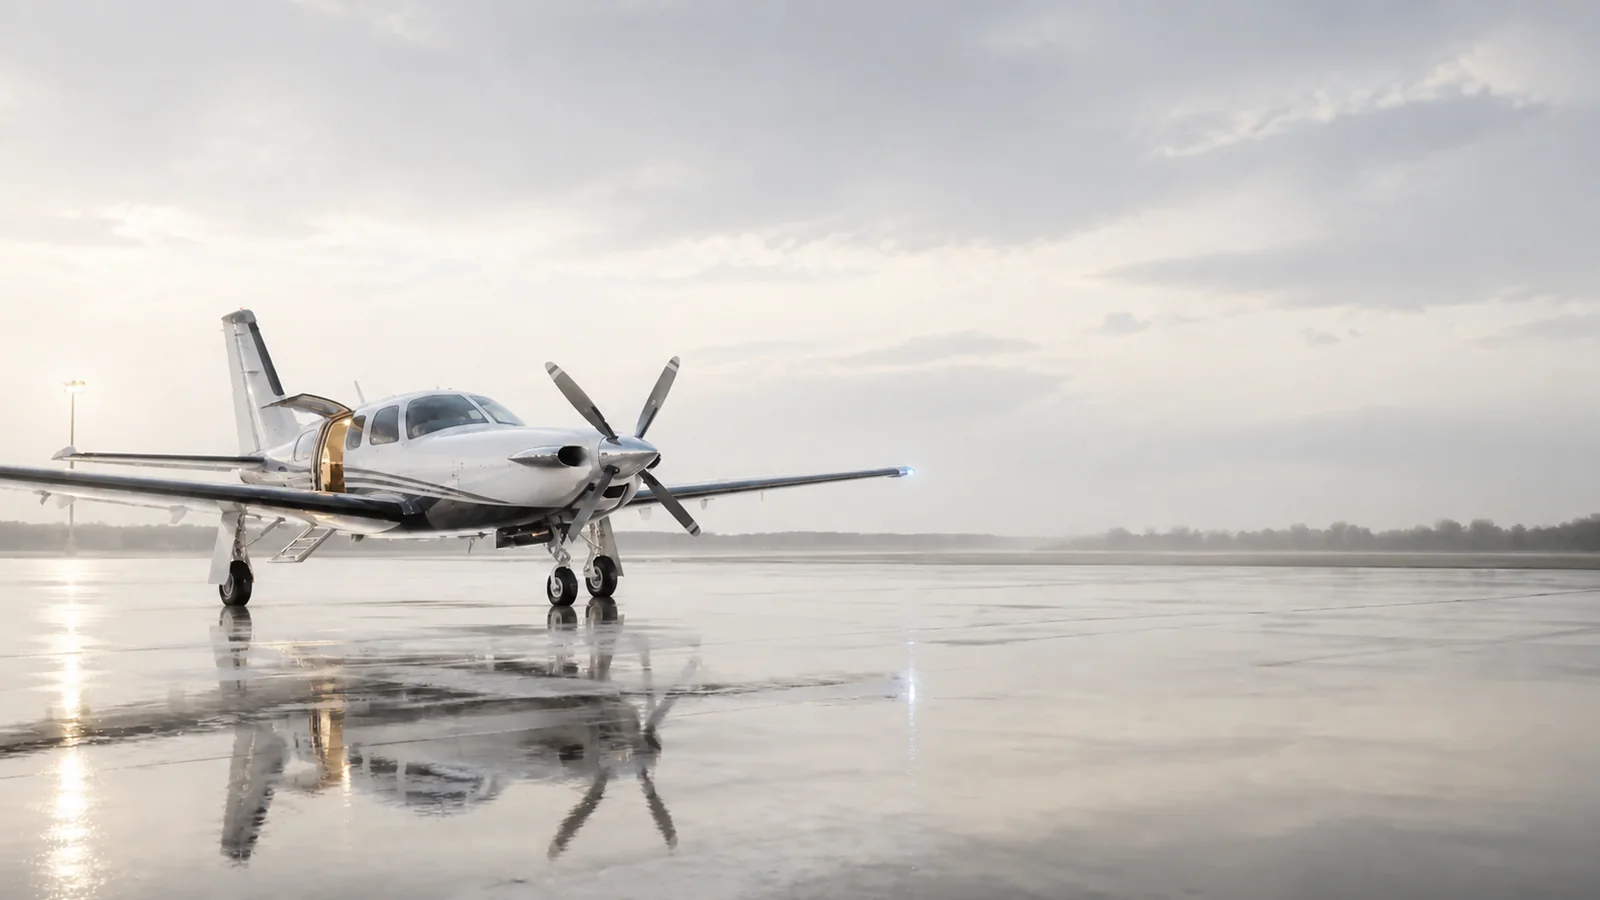
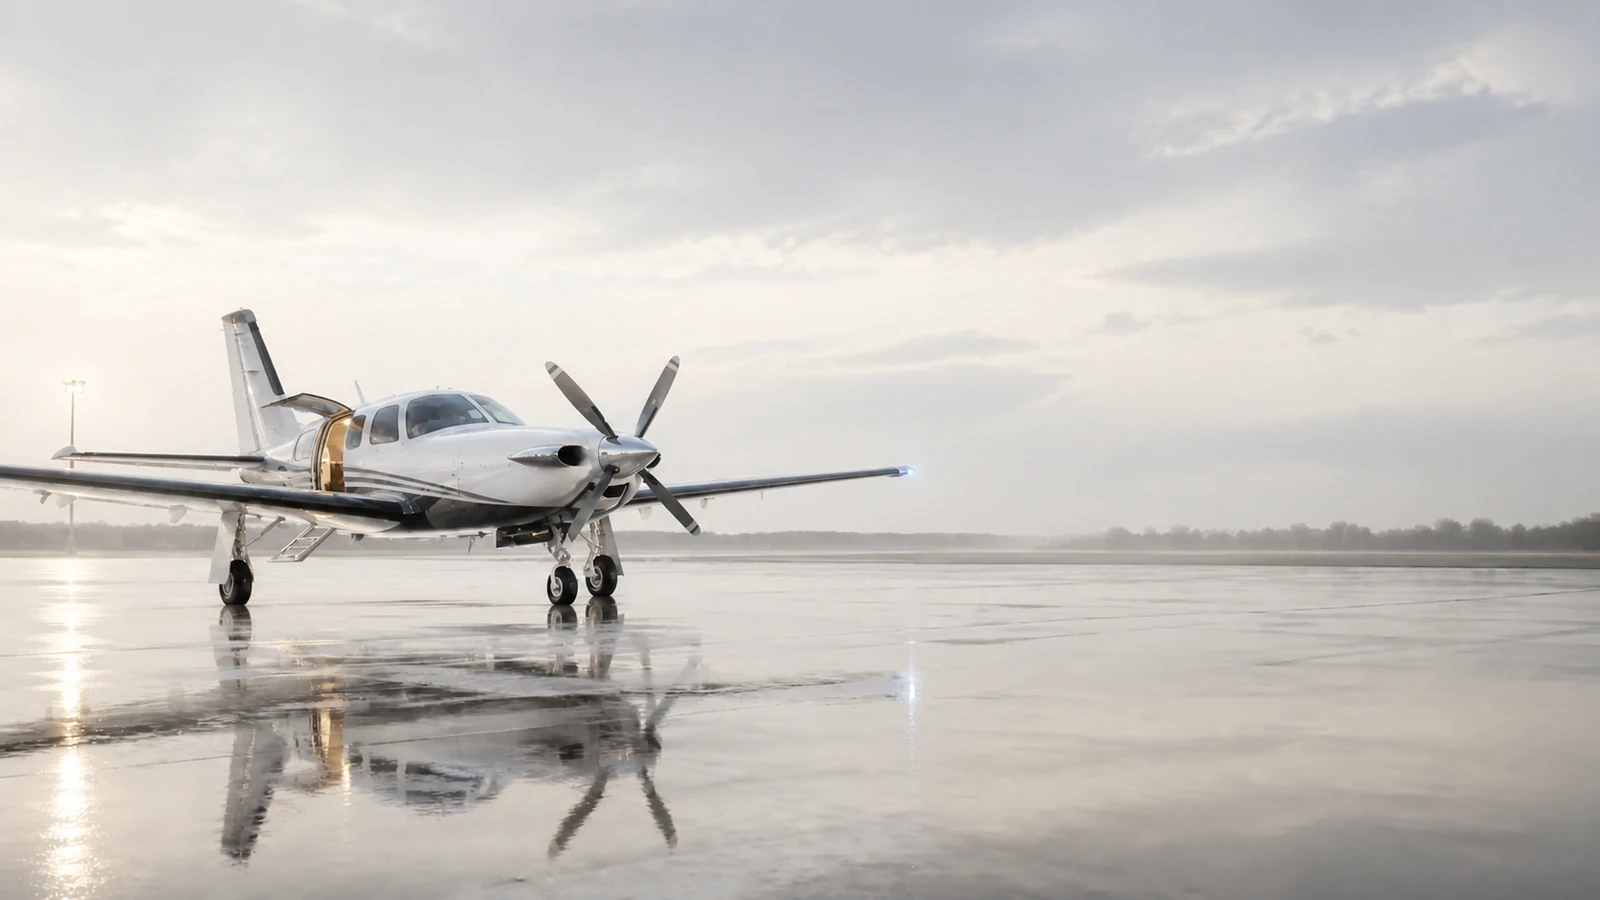
Hero: Day image re-encoded from the PNG master at q90; Night overlay lightened so the aircraft reads
- hero-day-theme.webp (1600x900, 75 KB) and -800 (29 KB) re-encoded from hero-day-theme-v1.png at WebP q90
  instead of the softer q84 files; same orientation as before.
- Night: photo opacity .58 to .86, left band and bottom fade lightened so the aircraft is visible behind the
  copy on desktop; phones show more of the tail and ramp lights. Copy keeps its text shadows.

Claude-Session: https://claude.ai/code/session_01NPQth7Rg2PHwTJZRLDbW9K

diff --git a/site/app_head.html b/site/app_head.html
@@ -301,8 +301,8 @@ footer.disc .full{display:none}.is-welcome footer.disc .full{display:inline}.is-
 .landing{max-width:1100px;margin:0 auto}
 .hero{padding:34px 24px 28px;position:relative;overflow:hidden;isolation:isolate;background:#070B14;border:1px solid #1E2A40;border-radius:24px}
 .hero-media{position:absolute;inset:0;z-index:0}
-.heroart{width:100%;height:100%;object-fit:cover;object-position:38% center;opacity:.58}
-.hero::after{content:"";position:absolute;inset:0;z-index:1;pointer-events:none;background:linear-gradient(90deg,rgba(7,11,20,.58) 0%,rgba(7,11,20,.44) 42%,rgba(7,11,20,.60) 70%,rgba(7,11,20,.84) 100%),linear-gradient(0deg,rgba(7,11,20,.92),rgba(7,11,20,.40) 55%,transparent 100%)}
+.heroart{width:100%;height:100%;object-fit:cover;object-position:38% center;opacity:.86}
+.hero::after{content:"";position:absolute;inset:0;z-index:1;pointer-events:none;background:linear-gradient(90deg,rgba(7,11,20,.50) 0%,rgba(7,11,20,.30) 40%,rgba(7,11,20,.34) 68%,rgba(7,11,20,.72) 100%),linear-gradient(0deg,rgba(7,11,20,.86),rgba(7,11,20,.22) 48%,transparent 100%)}
 .hero .eyebrow,.hero .herotitle,.hero .herosub,.hero .hero-proof,.hero .micro,.hero .linkbtn{text-shadow:0 1px 3px rgba(7,11,20,.9),0 10px 34px rgba(7,11,20,.7)}
 .herowrap{position:relative;z-index:2;display:grid;grid-template-columns:1fr;gap:28px;align-items:center}
 @media (min-width:860px){.herowrap{grid-template-columns:1.15fr .85fr}.hero{padding:58px 48px 42px;min-height:550px}}
@@ -342,7 +342,7 @@ footer.disc .full{display:none}.is-welcome footer.disc .full{display:inline}.is-
 .hero .phone .pverdict{background:rgba(15,42,30,.62)}
 .hero-proof{display:flex;flex-wrap:wrap;gap:8px 16px;margin-top:12px;color:#A7B2C3;font-size:12px;font-weight:700}
 .hero-proof span::before{content:"✓" / "";color:#4CC9FF;margin-right:6px}
-@media (max-width:559px){.panel#tab-welcome{padding:10px 12px 8px}.hero{padding:26px 18px 22px;border-radius:20px}.heroart{object-position:30% center;opacity:.55}.hero::after{background:linear-gradient(180deg,rgba(7,11,20,.60) 0%,rgba(7,11,20,.90) 46%,#070B14 72%)}.hero .btnrow .btn{width:100%}.hero .phone{margin-top:0}.strip{padding-left:4px;padding-right:4px}
+@media (max-width:559px){.panel#tab-welcome{padding:10px 12px 8px}.hero{padding:26px 18px 22px;border-radius:20px}.heroart{object-position:16% 34%;opacity:.84}.hero::after{background:linear-gradient(180deg,rgba(7,11,20,.52) 0%,rgba(7,11,20,.64) 40%,rgba(7,11,20,.88) 68%,#070B14 84%)}.hero .btnrow .btn{width:100%}.hero .phone{margin-top:0}.strip{padding-left:4px;padding-right:4px}
 :root[data-hero="day"] .heroart{opacity:1;object-position:36% 40%}:root[data-hero="day"] .hero::after{background:linear-gradient(180deg,rgba(244,246,250,.60) 0%,rgba(244,246,250,.74) 42%,rgba(238,242,247,.90) 72%,#EEF2F7 100%)}
 .hero .hero-proof{margin-top:10px}.hero-jump{margin-top:10px}.hero .herosub{font-size:14.5px}.phone .pverdict{padding:12px 10px}.phone .pverdict .n{font-size:38px}}
 @media (max-width:359px){.hero{padding:22px 14px 20px}.herotitle{font-size:31px}.herosub{font-size:14px}.phone{padding:10px;border-radius:26px;gap:8px}.phone .pcard{padding:10px}.pfield{padding:7px 8px}.pfield .v{font-size:12px}.phone .pverdict .n{font-size:36px}.hero .phone .row{gap:6px}}
